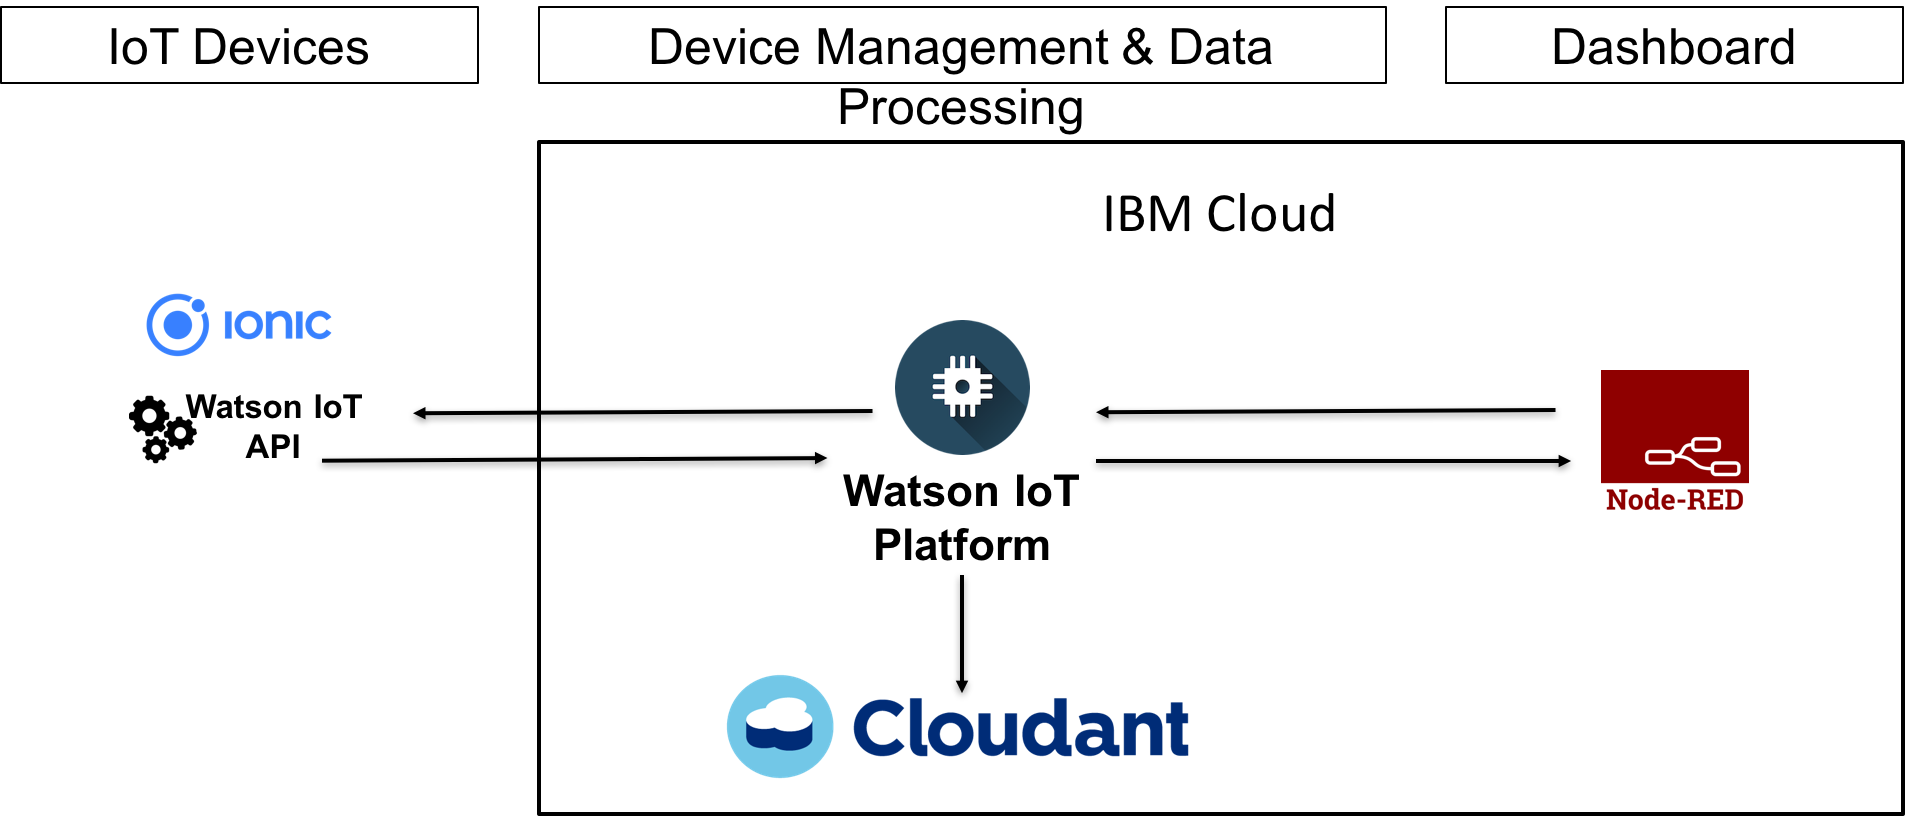
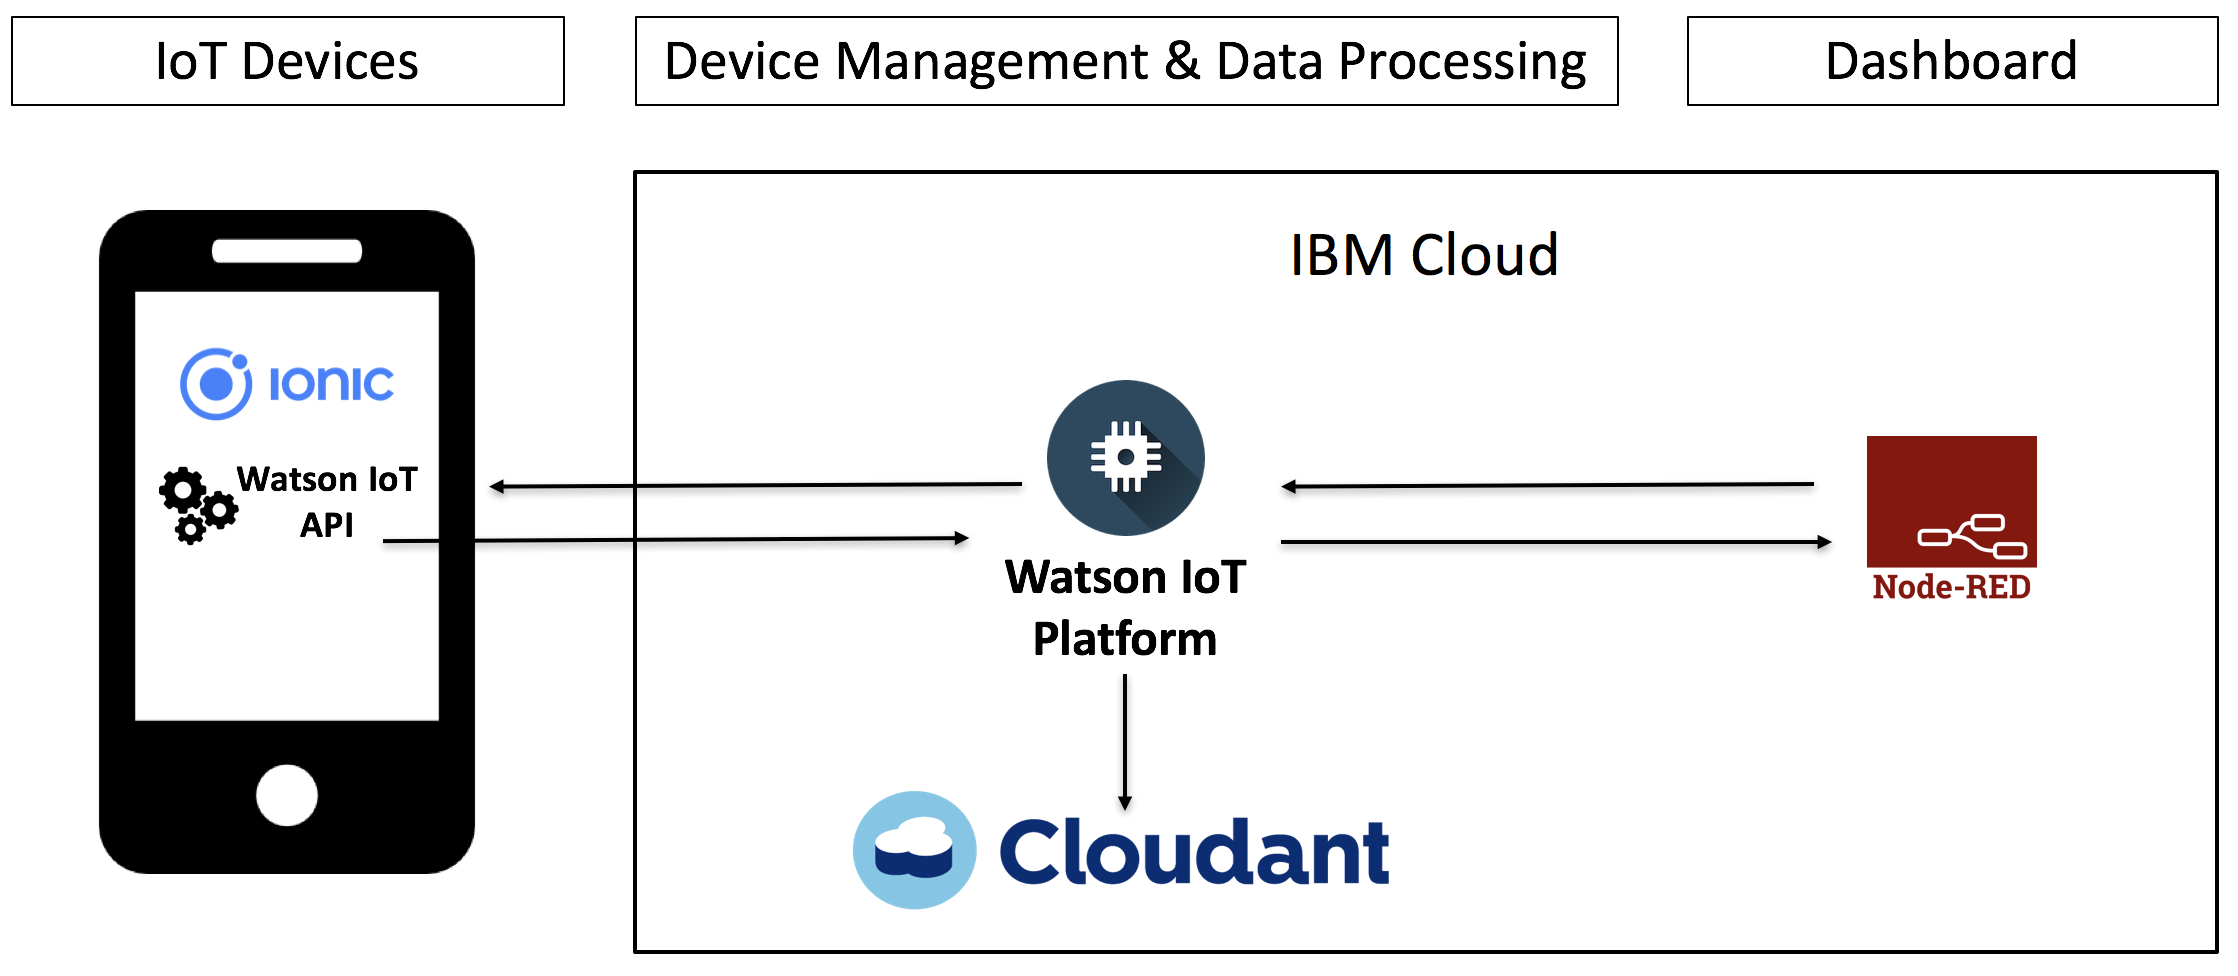
improved the documentation

diff --git a/README.md b/README.md
@@ -5,19 +5,22 @@ to a dashboard via IBM Watson IoT Platform. While each of the IoT devices is mea
 
 To get some first impressions of the demo setup, have a look at the following document: [Demo-Setup.pptx](/documentation/Demo-Setup.pptx)
 
-**The demo focuses mainly on three container tracking use-cases:**
+### Focused Container Tracking Use-Cases
+The demo focuses mainly on three container tracking use-cases:
 1. Tracking the location
 2. Tracking the container handling and orientation
 3. Looking remotely insight containers
 
-**The following features of the IBM Watson IoT Platform get demonstrated through this demo:**
+### Demonstrated Functions of the IBM Watson IoT Platform
+The following features of the IBM Watson IoT Platform get demonstrated through this demo:
 1. connecting IoT devices to the platform
 2. sending data from an IoT device to the platform
 3. connecting third-party apps (like a dashboard) to the platform to process the IoT data
 4. sending a command to an IoT device via the platform
 5. the concept behind edge analytics
-6. the high flexibility of the platform since most of the functionality can be accessed via APIs
-7. how easy it is to build an IoT PoC using the platform
+6. connecting a Cloudant DB via the extensions to the platform in order to archive all the IoT data
+7. the high flexibility of the platform since most of the functionality can be accessed via APIs
+8. how easy it is to build an IoT PoC using the platform
 
 ### Implemented Functionality
 The following features are currently implemented:
@@ -37,12 +40,19 @@ The following features are currently implemented:
 4. **Taking images of the insight of the container**
     - the IoT devices are abel to receive a "takePicture" command via the IBM Watson IoT Platform
     - the dashboard has a button through which the "takePicture" command can be triggered for a specific IoT device
-    - 
+    
 5. **Simulating edge analytics**
 6. **Giving an overview of all containers** 
 7. **Show all available data about one container**
 
 ### Envisioned Demo Setup
+The following image gives an overview about the system architecture this demo is based on:
+![architecture](/documentation/architecture.png)
+
+The demo can be given using multiple IoT devices (recommended number: 3) since the dashboard supports multiple devices. To enhance the quality
+of the demo it is possible to build small containers and bind smartphones to those as shown on the following picture:
+![architecture](/documentation/container.png)
+
 
 
 Ionic Application (IoT Device)
@@ -73,28 +83,27 @@ The third and fourth stage are not directly linked to each other. Instead, the "
 
 Since the dashboard contains buttons and a selector the sixth stage is responsible for handling the user interactions. (e.g. sending a command to an IoT device or removing data) 
 
-### Remove All Data Stored in Flow-Context
+### Remove All Data Stored in the Flow-Context
 In order to easily delete all the data from the flow-context the "Remove all data" injector has been added to the NodeRED flow.
   
 
 Setup the demo
 ====================================
-Three things are needed in order to setup the demo:
+In order to setup the demo the following components are required:
 - [Instance of the IBM Watson IoT Platform](https://internetofthings.ibmcloud.com/)
-- Android/iOS device
 - [NodeRED Server](https://nodered.org/)
+- Android/iOS device
+- [Cloudant DB](https://developer.ibm.com/clouddataservices/docs/cloudant/) (optionally)
 
-
-![architecture](/documentation/architecture.png)
 
 ### Create and configure the IBM Watson IoT Platform
 1. an IBM Watson IoT Platform instance can be deployed for free via [IBM Cloud](https://console.bluemix.net/dashboard/apps)
     1. Create an IBM Cloud account
     2. Select the [Internet of Things Platform](https://console.bluemix.net/catalog/services/internet-of-things-platform?taxonomyNavigation=apps) service form the service catalogue
     3. create an instance of the [Internet of Things Platform](https://console.bluemix.net/catalog/services/internet-of-things-platform?taxonomyNavigation=apps) service 
-2) visit the UI of the created Internet of Things Platform [service](https://internetofthings.ibmcloud.com/)
-3) register as many IoT devices as wanted using "token" as authentication method ([instructions](https://developer.ibm.com/recipes/tutorials/how-to-register-devices-in-ibm-iot-foundation/))
-4) register an application to enable the NodeRED Dashboard to access the IoT data later on  
+2. visit the UI of the created Internet of Things Platform [service](https://internetofthings.ibmcloud.com/)
+3. register as many IoT devices as wanted using "token" as authentication method ([instructions](https://developer.ibm.com/recipes/tutorials/how-to-register-devices-in-ibm-iot-foundation/))
+4. register an application to enable the NodeRED Dashboard to access the IoT data later on  
 
 ### Deploy the NodeRED Dashboard
 
@@ -104,4 +113,9 @@ Three things are needed in order to setup the demo:
 2. build the application
 3. install the application
 4. configure the IoT device 
+
+
+### Connecting a Cloudant DB
+This step is not necessary for the demo but can still be performed in order to demonstrated how easy it is to achieve all the IoT data send to the IBM Watson IoT Platform.
+
 
